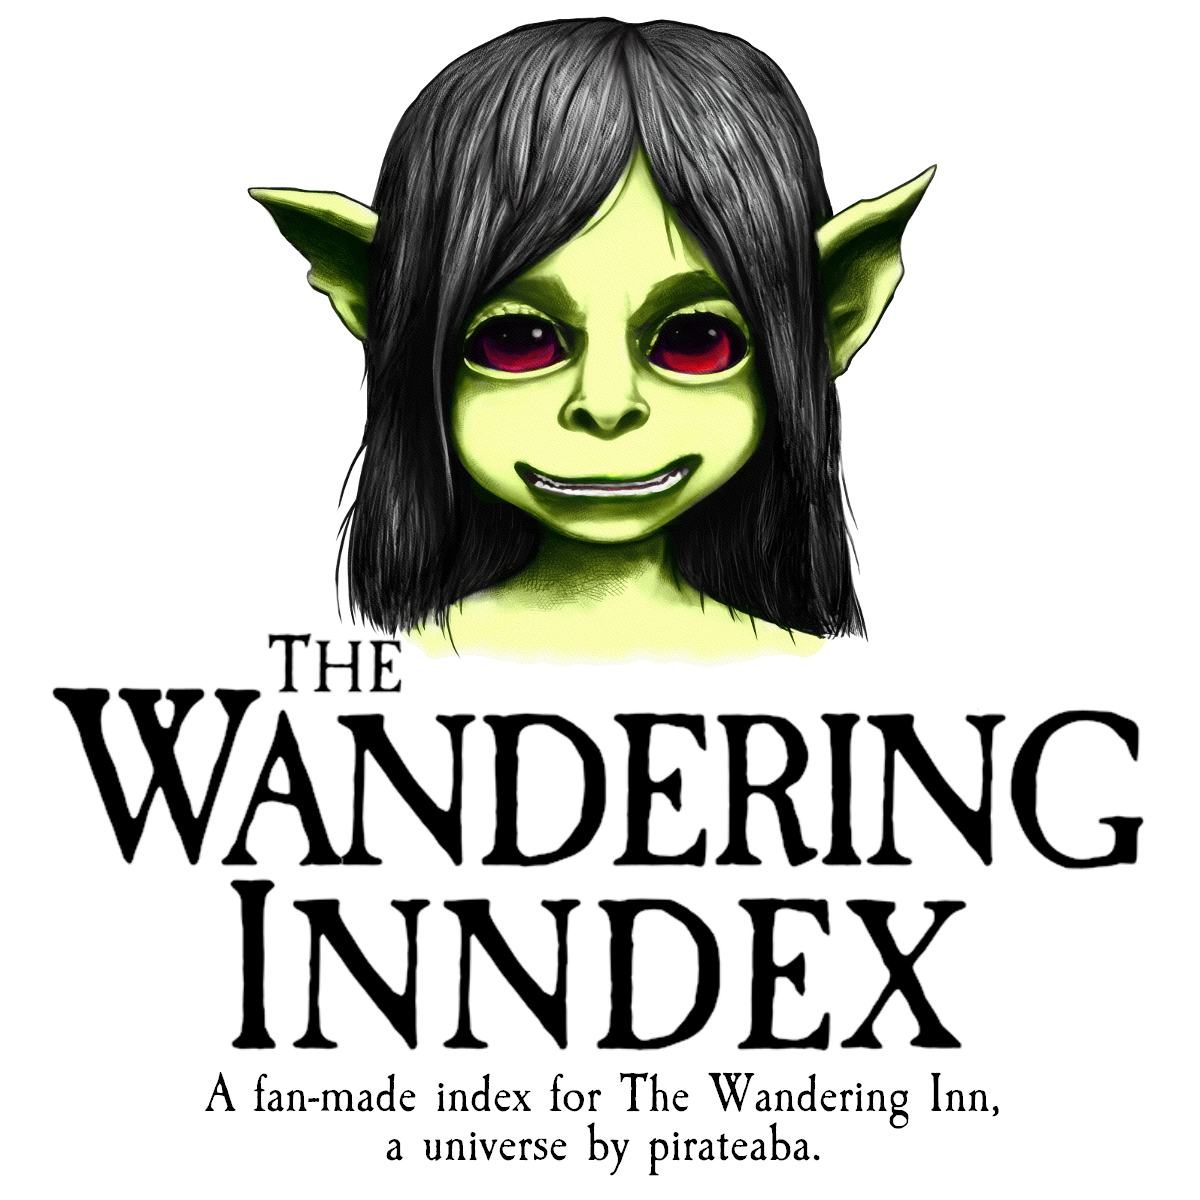
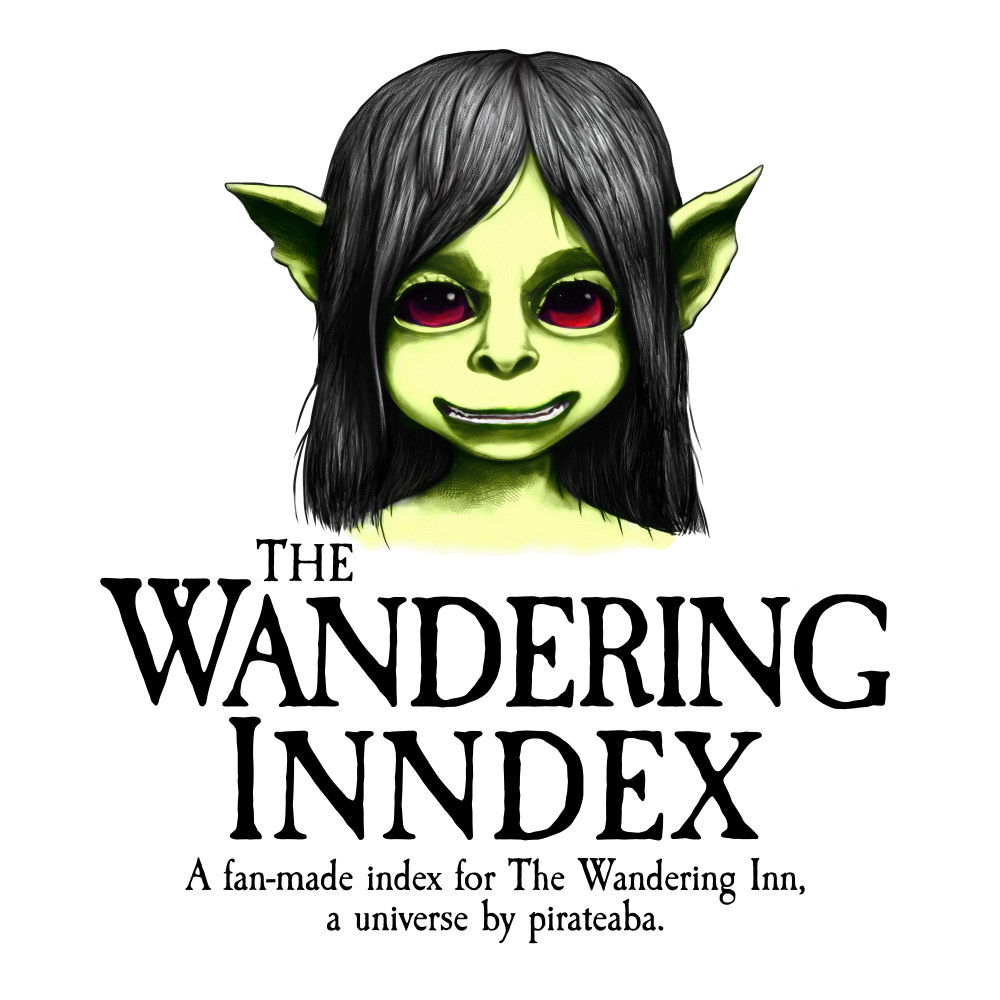
feat(site): add index page

Changed region(s): [[0.031, 0.0, 0.961, 0.992], [0.775, 0.744, 0.806, 0.775]]

diff --git a/components/ui/SiteFooter.tsx b/components/ui/SiteFooter.tsx
@@ -7,7 +7,7 @@ export default function SiteFooter() {
             This is a fan-made index for{" "}
             <a
               href="https://wanderinginn.com"
-              class="font-semibold text-[#1583af] hover:underline"
+              class="font-semibold text-gray-700 hover:underline"
               target="_blank"
             >
               The Wandering Inn
@@ -18,7 +18,7 @@ export default function SiteFooter() {
             author,{" "}
             <a
               href="https://patreon.com/pirateaba"
-              class="font-semibold text-[#1583af] hover:underline"
+              class="font-semibold text-gray-700 hover:underline"
               target="_blank"
             >
               pirateaba
@@ -31,7 +31,7 @@ export default function SiteFooter() {
             <span>
               <a
                 href="https://wanderinginn.com"
-                class="font-semibold text-[#1583af] hover:underline"
+                class="font-semibold text-gray-700 hover:underline"
                 target="_blank"
               >
                 The Wandering Inn Website
@@ -40,7 +40,7 @@ export default function SiteFooter() {
             <span>
               <a
                 href="https://store.wanderinginn.com"
-                class="font-semibold text-[#1583af] hover:underline"
+                class="font-semibold text-gray-700 hover:underline"
                 target="_blank"
               >
                 The Wandering Inn Official Store
@@ -49,7 +49,7 @@ export default function SiteFooter() {
             <span>
               <a
                 href="https://patreon.com/pirateaba"
-                class="font-semibold text-[#1583af] hover:underline"
+                class="font-semibold text-gray-700 hover:underline"
                 target="_blank"
               >
                 Patreon
@@ -61,7 +61,7 @@ export default function SiteFooter() {
           Want to interact with fellow{" "}
           <a
             href="https://www.reddit.com/r/WanderingInn/comments/hy1r3v/spoiled_readers/"
-            class="font-semibold text-[#1583af] hover:underline"
+            class="font-semibold text-gray-700 hover:underline"
             target="_blank"
           >
             ducks
@@ -69,7 +69,7 @@ export default function SiteFooter() {
           <span>
             <a
               href="https://reddit.com/r/WanderingInn"
-              class="font-semibold text-[#1583af] hover:underline"
+              class="font-semibold text-gray-700 hover:underline"
               target="_blank"
             >
               The Wandering Inn Subreddit
@@ -79,7 +79,7 @@ export default function SiteFooter() {
           <span>
             <a
               href="https://discord.com/invite/abwsa3y"
-              class="font-semibold text-[#1583af] hover:underline"
+              class="font-semibold text-gray-700 hover:underline"
               target="_blank"
             >
               Discord Server
@@ -90,7 +90,7 @@ export default function SiteFooter() {
           You can also listen to the{" "}
           <a
             href="https://www.podomatic.com/podcasts/dragonus45"
-            class="font-semibold text-[#1583af] hover:underline"
+            class="font-semibold text-gray-700 hover:underline"
             target="_blank"
           >
             No Killing Goblins podcast
@@ -98,7 +98,7 @@ export default function SiteFooter() {
           <span>
             <a
               href="https://thewanderinginn.fandom.com/wiki/The_Wandering_Inn_Wiki"
-              class="font-semibold text-[#1583af] hover:underline"
+              class="font-semibold text-gray-700 hover:underline"
               target="_blank"
             >
               Wiki
@@ -107,7 +107,7 @@ export default function SiteFooter() {
           <span>
             <a
               href="https://twifanart.shelter.moe/"
-              class="font-semibold text-[#1583af] hover:underline"
+              class="font-semibold text-gray-700 hover:underline"
               target="_blank"
             >
               Booru

diff --git a/routes/index.tsx b/routes/index.tsx
@@ -1,0 +1,48 @@
+import { Head } from "$fresh/runtime.ts";
+
+import {
+  DEFAULT_SITE_DESCRIPTION,
+  DEFAULT_SITE_NAME,
+} from "../constants/site.ts";
+import SiteFooter from "../components/ui/SiteFooter.tsx";
+import DocumentHead from "../components/document/DocumentHead.tsx";
+
+export default function Page() {
+  return (
+    <>
+      <DocumentHead />
+
+      <Head>
+        <title>{DEFAULT_SITE_NAME}</title>
+
+        <meta
+          property="description"
+          content={DEFAULT_SITE_DESCRIPTION}
+        />
+      </Head>
+
+      <div>
+        <img
+          src="/banner.png"
+          class="w-[200px] sm:w-[500px] object-contain mx-auto"
+          alt="The Wandering Inndex - A fan-made index for The Wandering Inn, a universe by pirateaba."
+          title="The Wandering Inndex - A fan-made index for The Wandering Inn, a universe by pirateaba."
+        />
+      </div>
+
+      <div>
+        <nav class="text-center font-semibold hover:underline uppercase">
+          <ul>
+            <li>
+              <a href="/toc">Table of Contents</a>
+            </li>
+          </ul>
+        </nav>
+
+        <div class="p-4 mx-auto text-sm text-gray-900">
+          <SiteFooter />
+        </div>
+      </div>
+    </>
+  );
+}

diff --git a/fresh.gen.ts b/fresh.gen.ts
@@ -8,8 +8,9 @@ import * as $1 from "./routes/api/media/chapters.ts";
 import * as $2 from "./routes/api/media/ebooks.ts";
 import * as $3 from "./routes/api/media/index.ts";
 import * as $4 from "./routes/api/media/volumes.ts";
-import * as $5 from "./routes/toc-beta.tsx";
-import * as $6 from "./routes/toc.tsx";
+import * as $5 from "./routes/index.tsx";
+import * as $6 from "./routes/toc-beta.tsx";
+import * as $7 from "./routes/toc.tsx";
 import * as $$0 from "./islands/ChatContainer.tsx";
 import * as $$1 from "./islands/ChatHelper.tsx";
 import * as $$2 from "./islands/DropdownSelector.tsx";
@@ -24,8 +25,9 @@ const manifest = {
     "./routes/api/media/ebooks.ts": $2,
     "./routes/api/media/index.ts": $3,
     "./routes/api/media/volumes.ts": $4,
-    "./routes/toc-beta.tsx": $5,
-    "./routes/toc.tsx": $6,
+    "./routes/index.tsx": $5,
+    "./routes/toc-beta.tsx": $6,
+    "./routes/toc.tsx": $7,
   },
   islands: {
     "./islands/ChatContainer.tsx": $$0,

diff --git a/components/ui/SiteHeader.tsx b/components/ui/SiteHeader.tsx
@@ -1,10 +1,20 @@
-import { DEFAULT_SITE_NAME } from "../../constants/site.ts";
-
 export default function SiteHeader() {
   return (
     <>
-      <nav class="w-full mb-3 text-center">
-        <span class="font-medium">{DEFAULT_SITE_NAME}</span>
+      <nav class="w-full mb-3 text-center object-contain">
+        <a
+          href="/"
+          title="The Wandering Inndex - A fan-made index for The Wandering Inn, a universe by pirateaba."
+        >
+          <img
+            src="/header-one-line-black-small.png"
+            class="h-3 mx-auto dark:h-0 dark:hidden"
+          />
+          <img
+            src="/header-one-line-white-small.png"
+            class="h-0 mx-auto dark:h-3 dark:inline"
+          />
+        </a>
       </nav>
     </>
   );

diff --git a/components/document/DocumentHead.tsx b/components/document/DocumentHead.tsx
@@ -28,6 +28,19 @@ export default function DocumentHead() {
           href="/favicon-16x16.png"
         />
         <link rel="icon" type="image/x-icon" href="/favicon.ico" />
+
+        <meta property="og:image" content="https://inndex.omg.lol/ogp.png" />
+        <meta
+          property="og:image:secure_url"
+          content="https://inndex.omg.lol/ogp.png"
+        />
+        <meta property="og:image:type" content="image/png" />
+        <meta property="og:image:width" content="1080" />
+        <meta property="og:image:height" content="500" />
+        <meta
+          property="og:image:alt"
+          content="The logo of The Wandering Inndex: a fan-made index for The Wandering Inn, a universe by pirateaba."
+        />
       </Head>
     </>
   );
